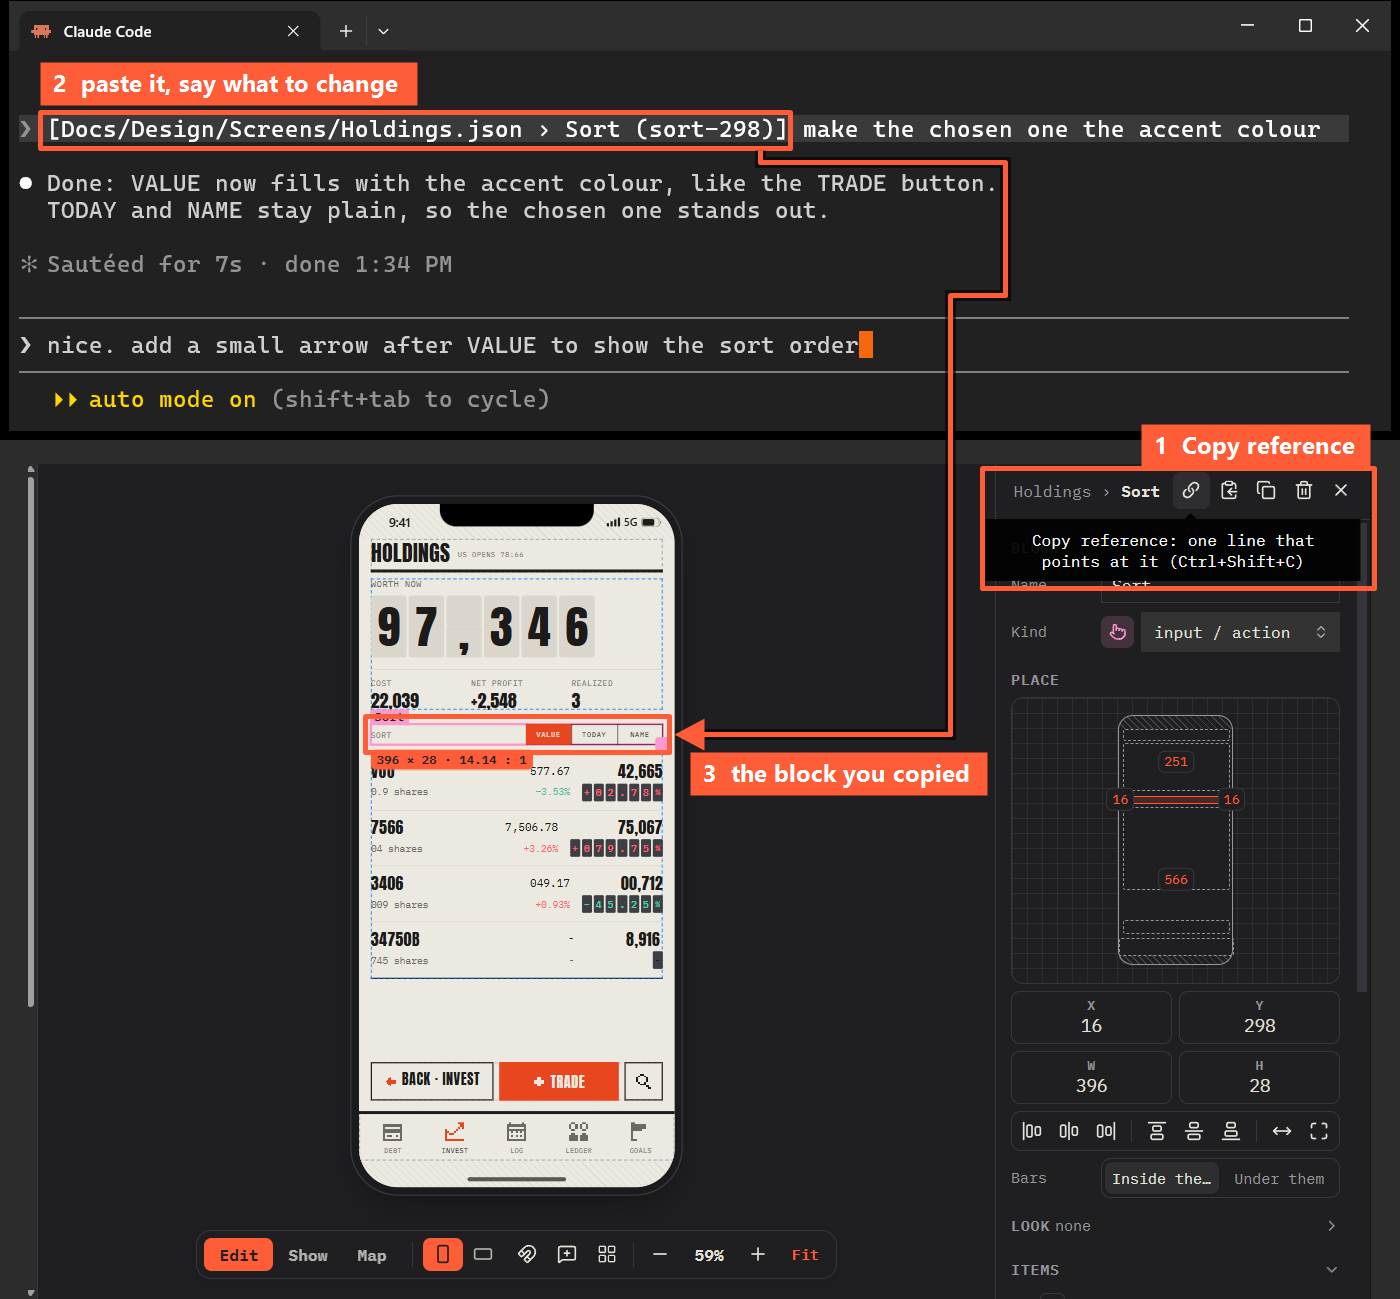
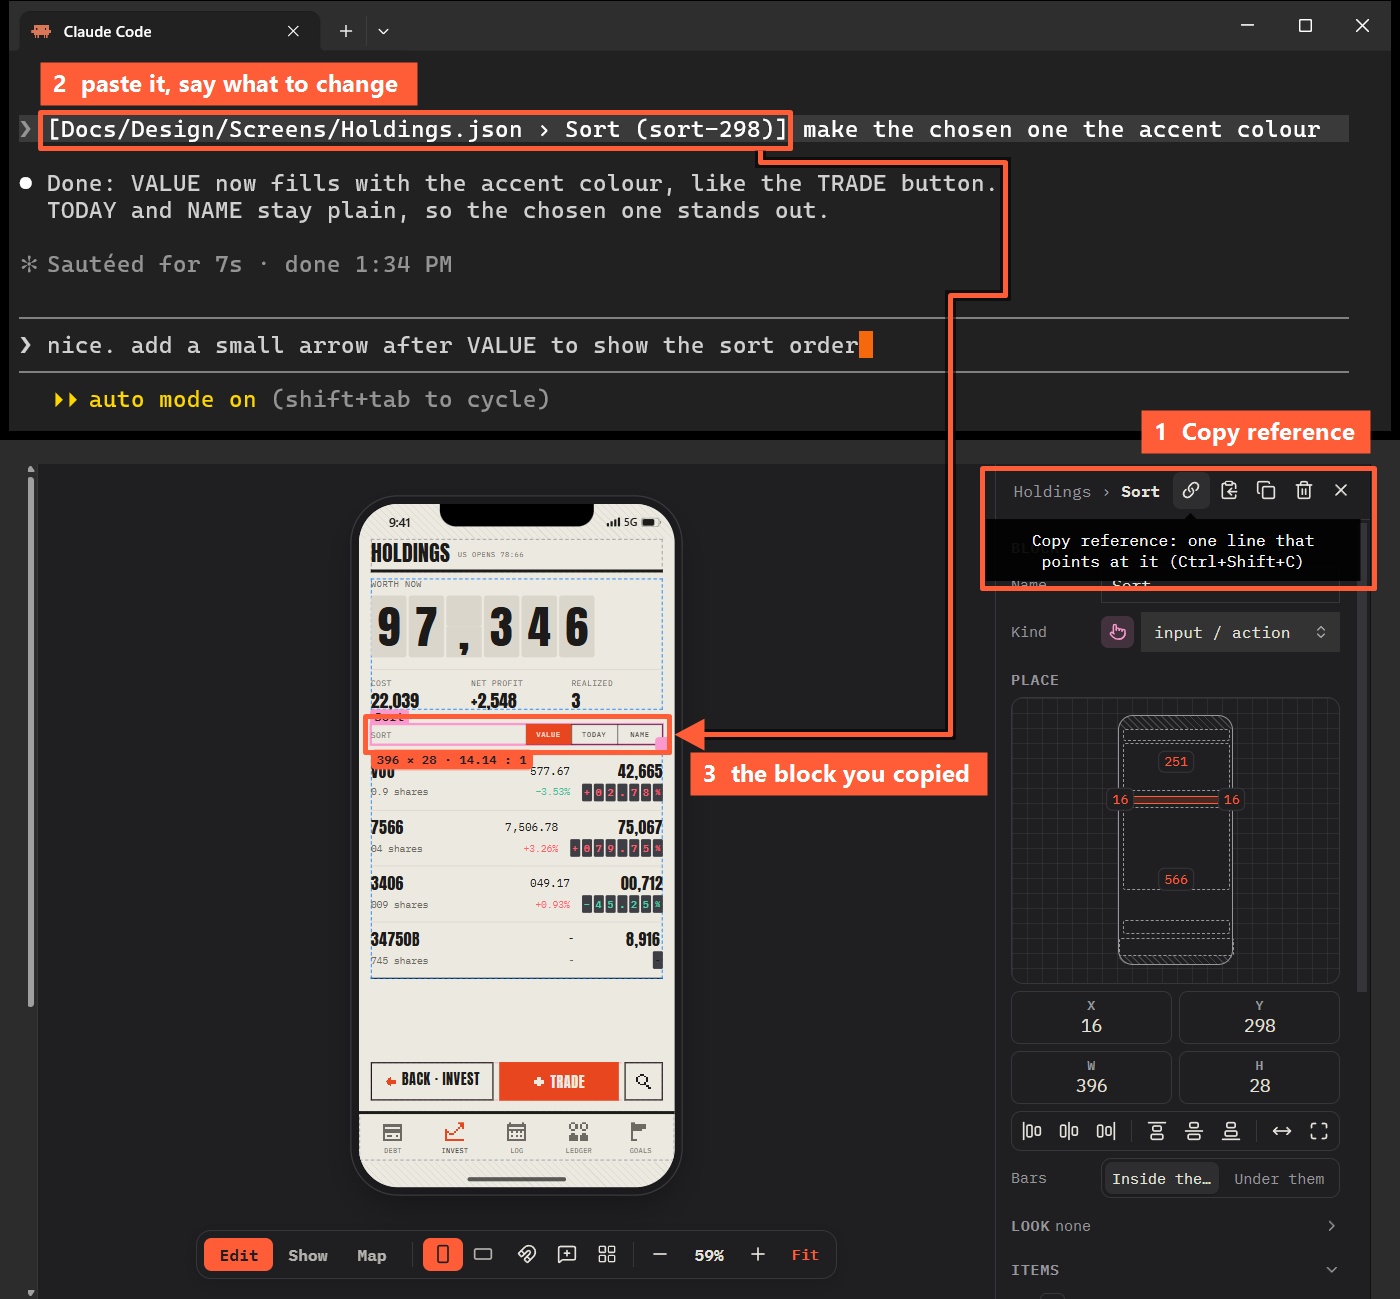
docs: a gap between the agent image's first label and its box

Changed region(s): [[0.7986, 0.3079, 0.9829, 0.3695]]

diff --git a/.claude/skills/vl-readme-shots/SKILL.md b/.claude/skills/vl-readme-shots/SKILL.md
@@ -47,7 +47,7 @@ Short and easy to read beats real-and-messy: a real session prints whole JSON fi
 7. Capture the stage and panel with Sort chosen **and the Copy reference hint showing**: `node scripts/shots/hover.mjs
    "Vellum ·" <button x> <y> <out.png> <clip x y w h>` (a hint shows only in a focused window; this emulates focus).
    Stack the two with `scripts/shots/stack.ps1`.
-8. Mark the flow with `scripts/shots/arrow.ps1`, numbered: **1** a box round the Copy reference button and its hint (its label on top of the box, right-aligned),
+8. Mark the flow with `scripts/shots/arrow.ps1`, numbered: **1** a box round the Copy reference button and its hint (its label above the box with a small gap, right-aligned),
    **2** a box round the pasted reference ("paste it, say what to change"), **3** an arrow from it to the block ("the
    block you copied"), routed through empty space (the gaps between lines, the stage beside the phone). Never across text.
 
